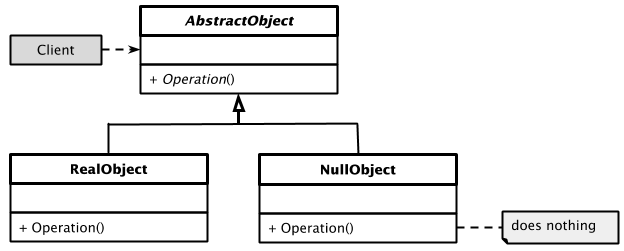
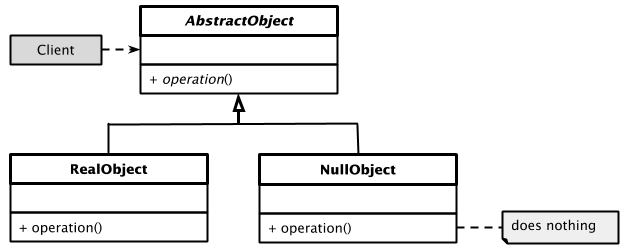
completed 'null object' pattern

Changed region(s): [[0.4263, 0.8924, 0.5785, 0.9482], [0.2436, 0.2789, 0.3958, 0.3347], [0.0304, 0.8924, 0.1827, 0.9482]]

diff --git a/NullObject/ConceptualExample.cpp b/NullObject/ConceptualExample.cpp
@@ -3,185 +3,55 @@
 // ===========================================================================
 
 #include <iostream>
-#include <list>
 #include <string>
 
 /**
- * The base Component class declares common operations for both
- * simple and complex objects of a composition.
+ * The base Component class declares common operations
+ * for both real and null objects.
  */
-class Component {
-    /**
-     * @var Component
-     */
-protected:
-    Component* m_parent;
-    /**
-     * Optionally, the base Component can declare an interface for setting and
-     * accessing a parent of the component in a tree structure. It can also
-     * provide some default implementation for these methods.
-     */
-
+class AbstractObject
+{
 public:
-    virtual ~Component() {}
-
-    void setParent(Component* parent) { m_parent = parent; }
-    Component* setParent() const { return m_parent; }
-
-    /**
-     * In some cases, it would be beneficial to define the child-management
-     * operations right in the base Component class. This way, you won't need to
-     * expose any concrete component classes to the client code, even during the
-     * object tree assembly. The downside is that these methods will be empty for
-     * the leaf-level components.
-     */
-    virtual void add(Component* component) {}
-    virtual void remove(Component* component) {}
-    
-    /**
-     * You can provide a method that lets the client code figure out whether a
-     * component can bear children.
-     */
-    virtual bool isComposite() const { return false; }
-
-    /**
-     * The base Component may implement some default behavior or leave it to
-     * concrete classes (by declaring the method containing the behavior as
-     * "abstract").
-     */
-    virtual std::string operation() const = 0;
+    virtual std::string  operation() const = 0;
 };
 
-
 /**
- * The Leaf class represents the end objects of a composition. A leaf can't have
- * any children.
- *
- * Usually, it's the Leaf objects that do the actual work, whereas Composite
- * objects only delegate to their sub-components.
+ * Implementation of a real object.
  */
-class Leaf : public Component {
+class RealObject : public AbstractObject
+{
 public:
-    std::string operation() const override {
-        return "Leaf";
+    virtual std::string  operation() const override
+    {
+     //   std::cout << "do something" << std::endl;
+        return std::string("computed something!");
     }
 };
 
 /**
- * The Composite class represents the complex components that may have children.
- * Usually, the Composite objects delegate the actual work to their children and
- * then "sum-up" the result.
+ * Implementation of a null object.
  */
-class Composite : public Component {
-    /**
-     * @var Composite
-     */
-protected:
-    std::list<Component*> m_children;
-
+class NullObject : public AbstractObject
+{
 public:
-    /**
-     * A composite object can add or remove other components (both simple or
-     * complex) to or from its child list.
-     */
-    void Add(Component* component) {
-        m_children.push_back(component);
-        component->setParent(this);
-    }
-
-    /**
-     * Have in mind that this method removes the pointer to the list but doesn't
-     * frees the memory, you should do it manually or better use smart pointers.
-     */
-    void Remove(Component* component)  {
-        m_children.remove(component);
-        component->setParent(nullptr);
-    }
-    bool isComposite() const override {
-        return true;
-    }
-
-    /**
-     * The Composite executes its primary logic in a particular way. It traverses
-     * recursively through all its children, collecting and summing their results.
-     * Since the composite's children pass these calls to their children and so
-     * forth, the whole object tree is traversed as a result.
-     */
-    std::string operation() const override {
-        std::string result;
-        for (const Component* c : m_children) {
-            if (c == m_children.back()) {
-                result += c->operation();
-            }
-            else {
-                result += c->operation() + "+";
-            }
-        }
-        return "Branch(" + result + ")";
-    }
+    virtual std::string operation() const override { return std::string(""); }
 };
 
 /**
- * The client code works with all of the components via the base interface.
+ * The client code works with all of the objects via the base interface.
+ * The function which requires an AbstractObject instance, and will not accept null
  */
-void ClientCode(Component* component) {
-    std::cout << "RESULT: " << component->operation();
+void clientCode(const AbstractObject& obj) {
+    // obj may never be null here
+    std::string result = obj.operation();
+    std::cout << "RESULT: " << result << std::endl;
 }
-
-/**
- * Due to the fact that the child-management operations are declared in the
- * base Component class, the client code can work with any component, simple or
- * complex, without depending on their concrete classes.
- */
-void ClientCode2(Component* component1, Component* component2) {
-    if (component1->isComposite()) {
-        component1->add(component2);
-    }
-    std::cout << "RESULT: " << component1->operation();
-}
-
-/**
- * This way the client code can support the simple leaf components...
- */
 
 void  test_conceptual_example() {
-
-    Component* simple = new Leaf;
-    std::cout << "Client: I've got a simple component:\n";
-    ClientCode(simple);
-    std::cout << "\n\n";
-
-    /**
-     * ...as well as the complex composites.
-     */
-    Component* tree = new Composite;
-
-    Component* branch1 = new Composite;
-    Component* leaf_1 = new Leaf;
-    Component* leaf_2 = new Leaf;
-    Component* leaf_3 = new Leaf;
-    branch1->add(leaf_1);
-    branch1->add(leaf_2);
-
-    Component* branch2 = new Composite;
-    branch2->add(leaf_3);
-    tree->add(branch1);
-    tree->add(branch2);
-    std::cout << "Client: Now I've got a composite tree:\n";
-    ClientCode(tree);
-    std::cout << "\n\n";
-
-    std::cout << "Client: I don't need to check the components classes even when managing the tree:\n";
-    ClientCode2(tree, simple);
-    std::cout << "\n";
-
-    delete simple;
-    delete tree;
-    delete branch1;
-    delete branch2;
-    delete leaf_1;
-    delete leaf_2;
-    delete leaf_3;
+    RealObject realObject;
+    clientCode(realObject);
+    NullObject nullObject;
+    clientCode(nullObject);
 }
 
 // ===========================================================================

diff --git a/NullObject/Program.cpp b/NullObject/Program.cpp
@@ -9,11 +9,11 @@
 // function prototypes
 void test_conceptual_example();
 void test_bank_account();
-void test_filesystem_02();
 
 int main() {
 
-    test_bank_account();
+    test_conceptual_example();
+    // test_bank_account();
 
     return 0;
 }
